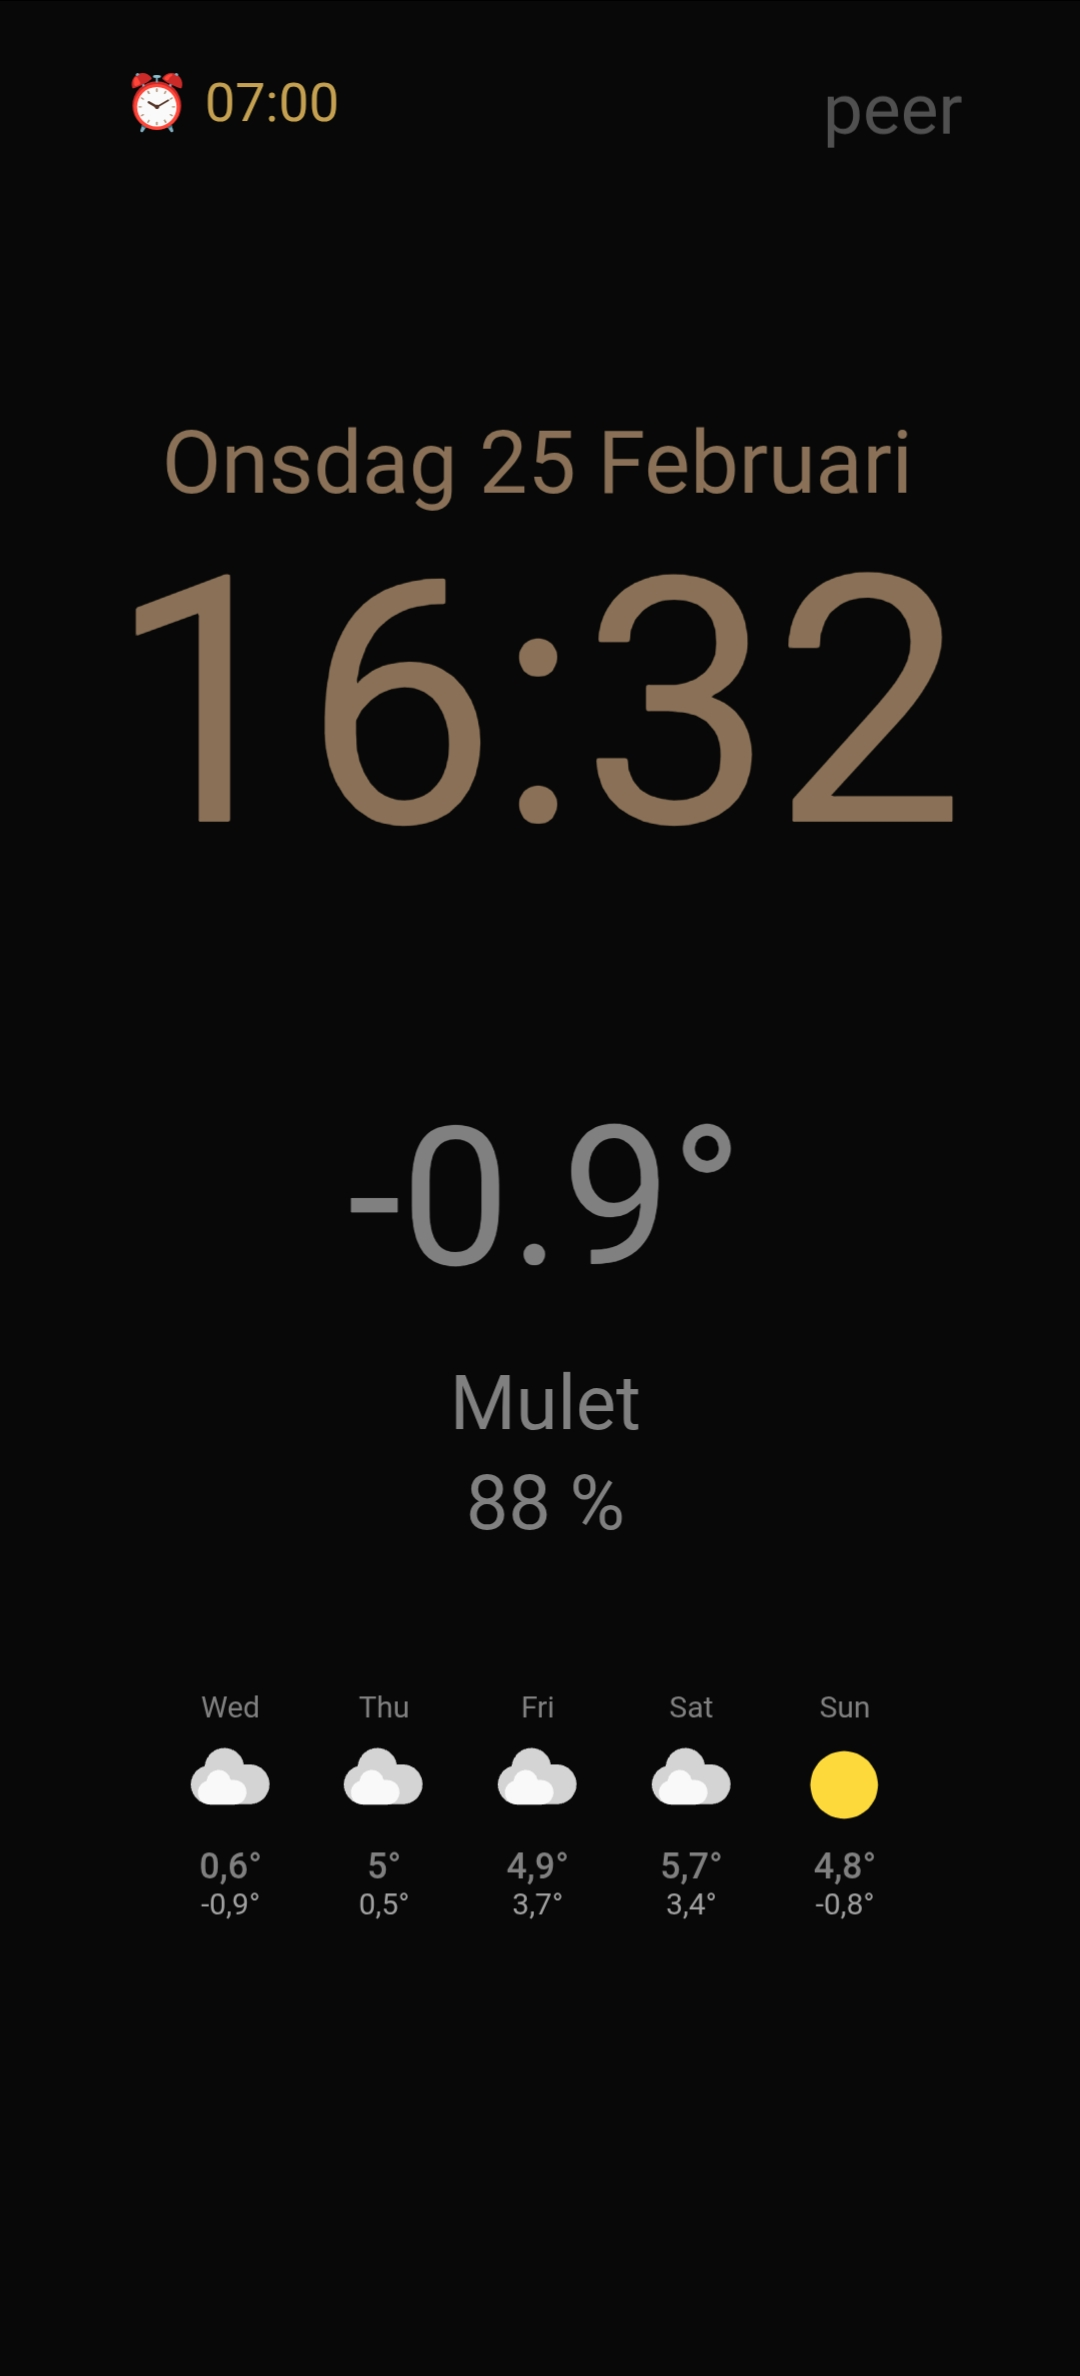
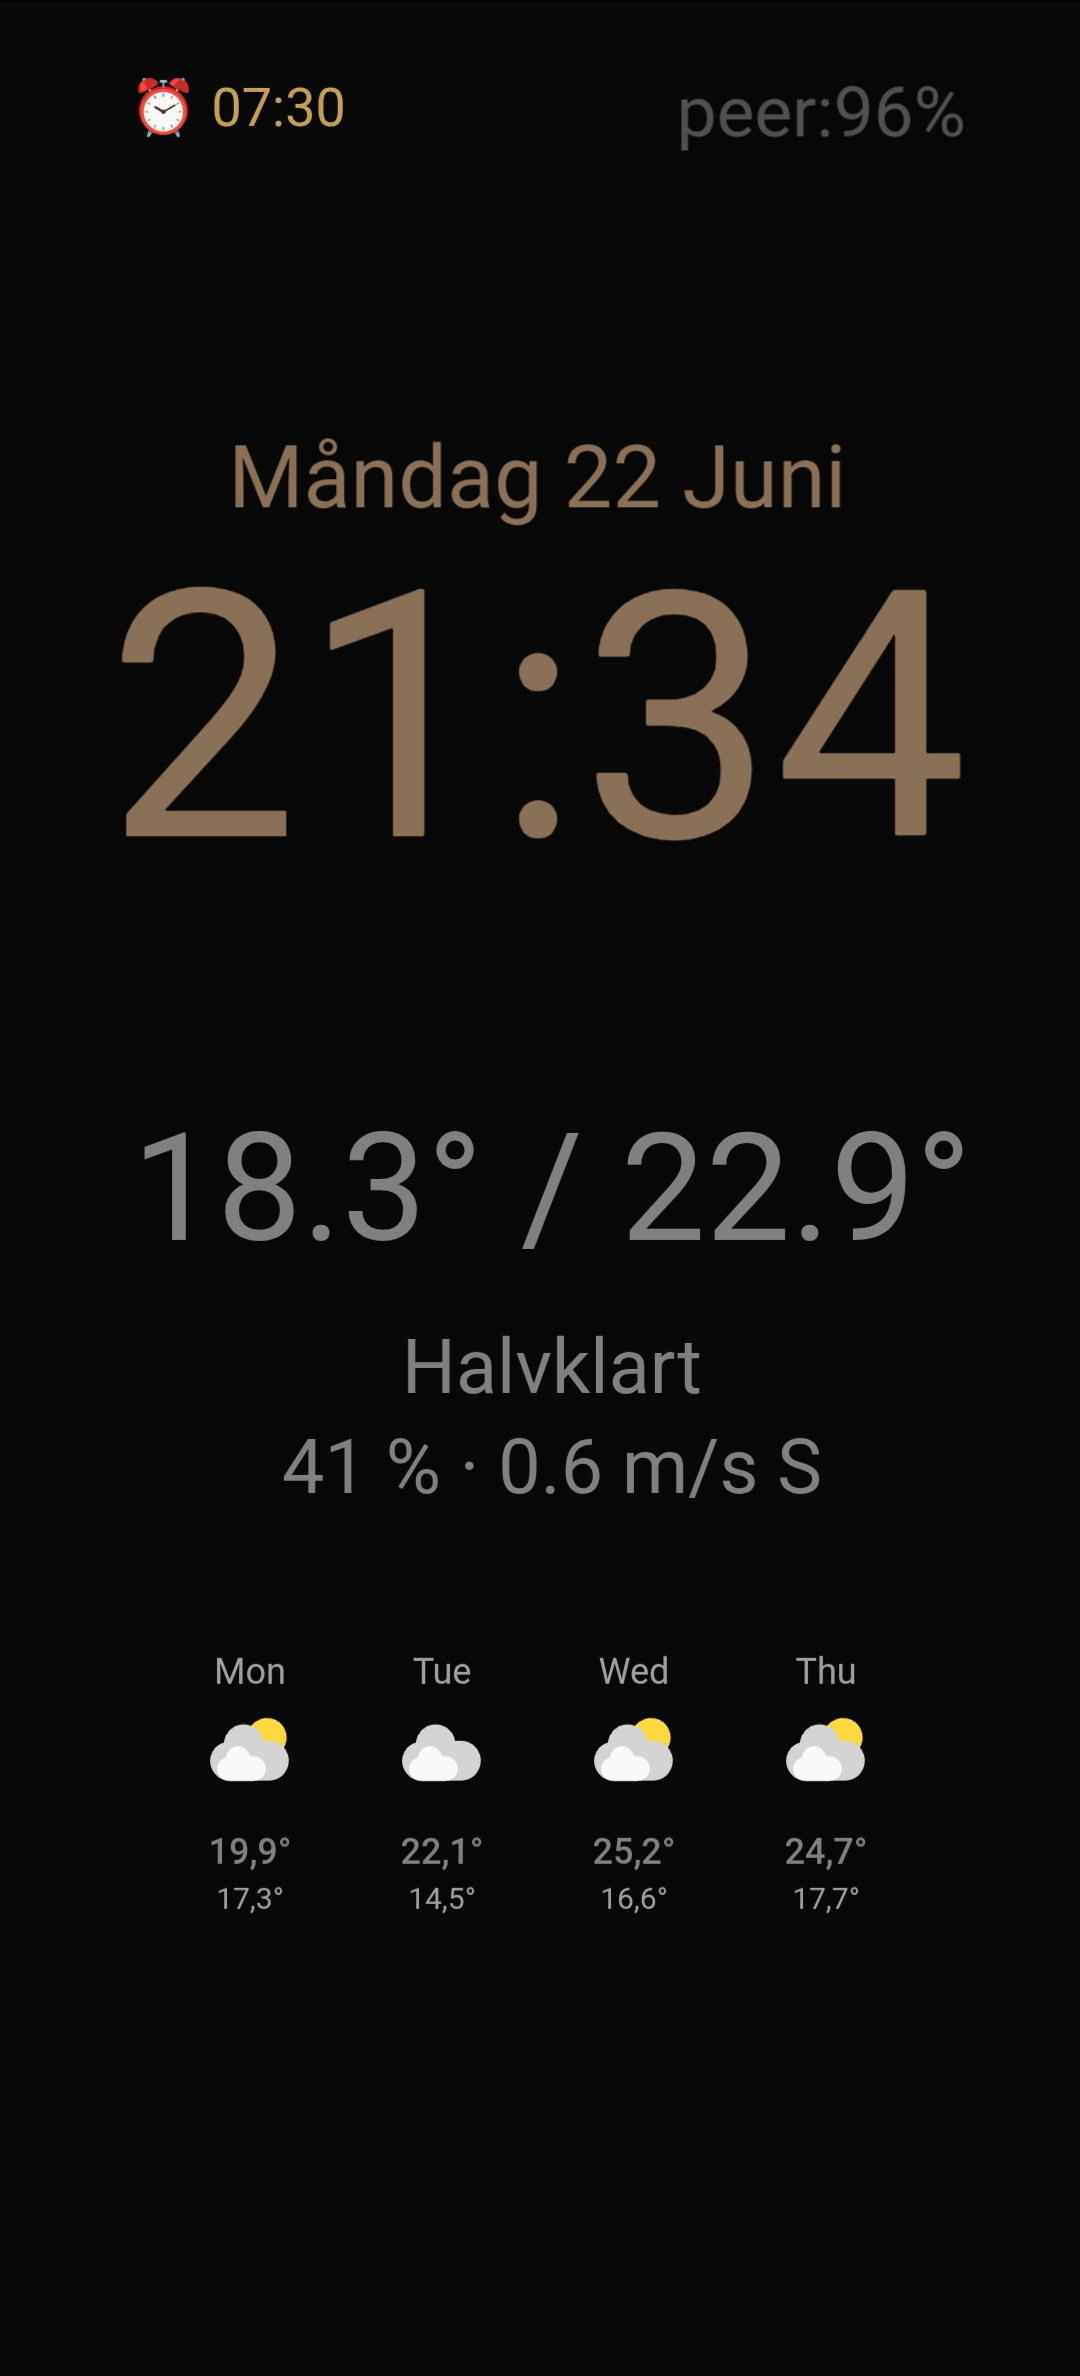
screensaver, triangulation: show device battery charge with charger location
Combine the device's battery level with the detected charger location in the
top-right field, rendered as "location:84%". Both resolve via the same Browser
ID transform used by the alarm field, falling back independently: "location:84%"
(both), "84%" (no charger location), "location" (no battery sensor).

- bt_triangulation.yaml: add battery_level_replacement attribute
  (sensor.$1_battery_level) to sensor.dashboard_logic_config
- screensaver.yaml: resolve and combine battery charge with charger location
  in the charger_location template
- README: document the battery charge field, fallback behavior, and the
  extended dynamic sensor mapping
- update screensaver.jpg screenshot

diff --git a/screensaver/README.md b/screensaver/README.md
@@ -143,7 +143,7 @@ To achieve **automatic activation, clean exit, and device-aware behavior**, addi
 
 <img src="docs/screensaver.jpg" width="20%" alt="Screensaver Dashboard Example">
 
-Time, date, temperature, weather, and 5-day forecast in a clean, minimalist layout optimized for wall mounting. If an alarm is set on the device, the next alarm time appears at the top. Anti-burn-in animations run continuously at imperceptible speeds to protect OLED/LCD panels.
+Time, date, temperature, weather, and 5-day forecast in a clean, minimalist layout optimized for wall mounting. If an alarm is set on the device, the next alarm time appears at the top. If the device exposes a battery level sensor, its charge level is shown at the top right, combined with the detected charger location as `location:84%` (reliable on phones; on kiosk tablets the native battery sensor can be intermittent — see Battery Management). Anti-burn-in animations run continuously at imperceptible speeds to protect OLED/LCD panels.
 
 ---
 
@@ -778,6 +778,7 @@ Both configurations use the same Home Assistant dashboard architecture with devi
 - Weather forecast text and icons depend on which weather service you configure (e.g., SMHI for Sweden, Weather.com for US, etc.)
 - ⚠ **Alarm display requires the Home Assistant Companion App** with "Next Alarm" sensor enabled on the device running the screensaver. Without this, alarm times will not appear. 
   If the sensor does not exist for a device, the alarm row will remain empty.
+- **Battery charge** (top right, combined with the charger location as `location:84%`) is device-agnostic — it's mapped per-device from the Browser ID to `sensor.{device_id}_battery_level` (see "Dynamic Sensor Mapping" below), so it shows on any device exposing that sensor (e.g. the Home Assistant Companion App's "Battery Level"), whether phone or tablet. It always shows the current level (independent of charging state). The location and charge fall back independently: `location:84%` when both are present, just `84%` when no charger location is detected (e.g. launched manually off-charger), just `location` if the battery sensor is missing/unavailable. Note: on kiosk tablets the native Android battery sensor can be intermittent (see Battery Management), so the charge may be empty or stale there even though it resolves.
 
 </details>
 
@@ -1173,7 +1174,17 @@ The screensaver uses JavaScript to dynamically map the correct Home Assistant se
 - The entity should be named: `sensor.{your_browser_id}_next_alarm`
 - Example: If your Browser ID is `bedroom_phone_fkb`, enable the "Next Alarm" sensor in Companion App settings, and it will be available as `sensor.bedroom_phone_fkb_next_alarm`
 
-This dynamic mapping pattern can be extended to other sensor types (battery level, charging state, etc.) using the same Browser ID-based naming convention.
+**Extended to battery charge:**
+
+The same pattern drives the battery charge level, which shares the top-right field with the charger location (rendered as `location:84%`). The Browser ID is transformed to `sensor.{device_id}_battery_level`, and the value is shown as a percentage (e.g. `67%`).
+
+- Replacement attribute: `battery_level_replacement: "sensor.$1_battery_level"` on `sensor.dashboard_logic_config` (alongside `alarm_id_replacement`)
+- Example: Browser ID `peers_mobil_fkb` → `sensor.peers_mobil_battery_level`
+- **Setup:** enable the "Battery Level" sensor in the Companion App so `sensor.{your_browser_id}_battery_level` exists; otherwise only the location (or nothing) is shown
+- Location and charge fall back independently: `location:84%` (both), `84%` (no charger location — e.g. launched manually off-charger), `location` (no battery sensor)
+- Shows the level regardless of charging state (the screensaver normally runs while docked, but the value still appears if launched manually off-charger)
+
+This dynamic mapping pattern can be extended to further sensor types (charging state, etc.) using the same Browser ID-based naming convention.
 
 </details>
 
